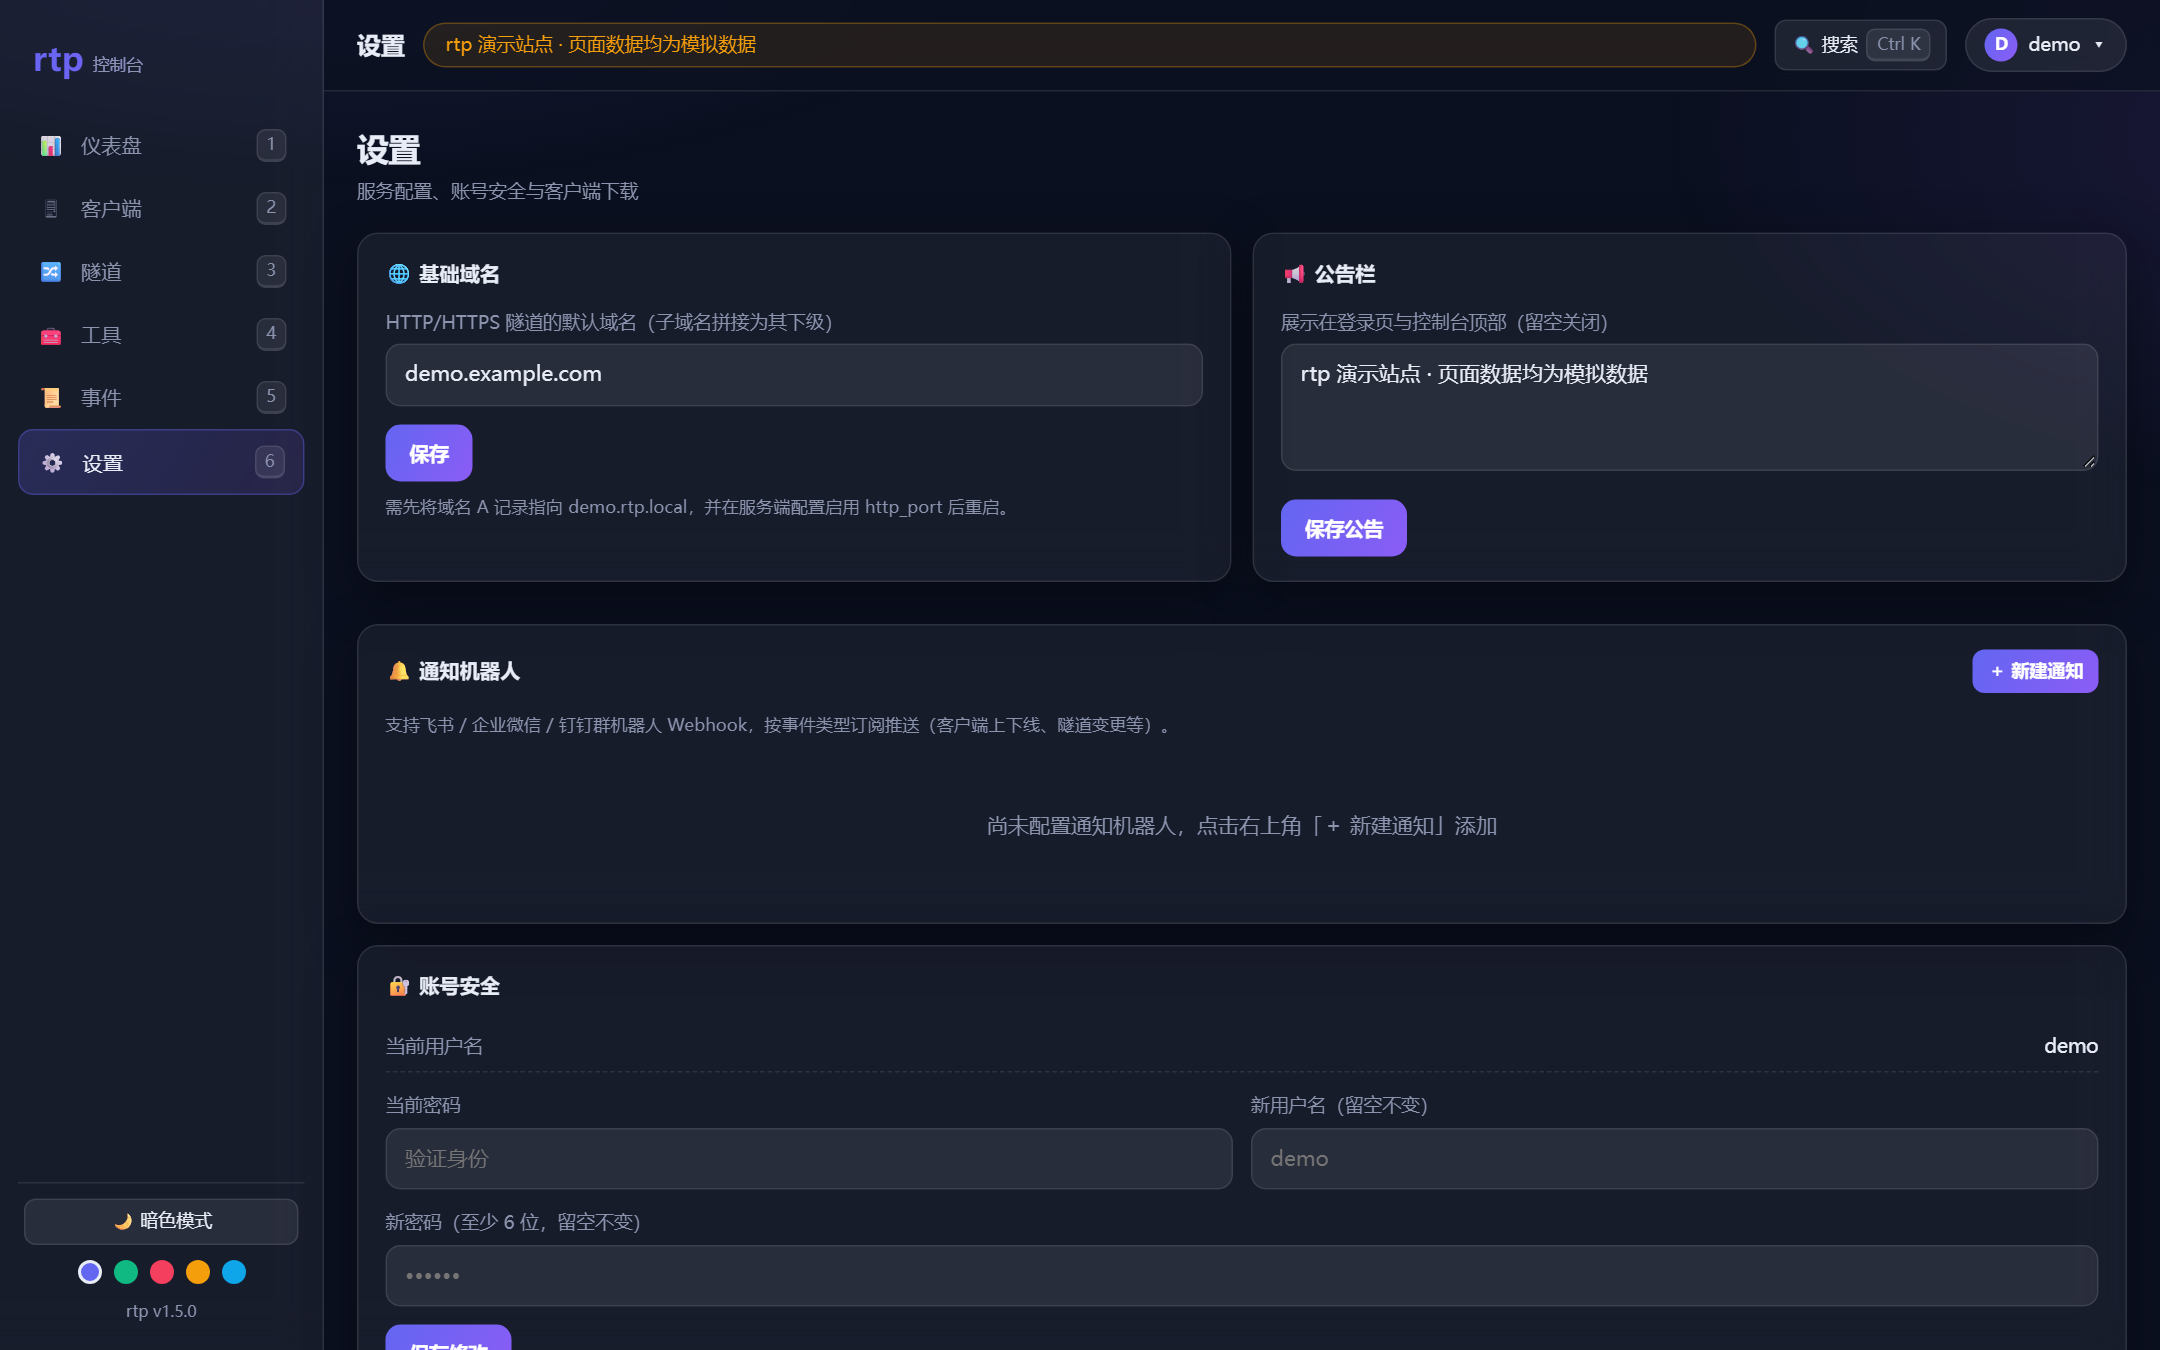
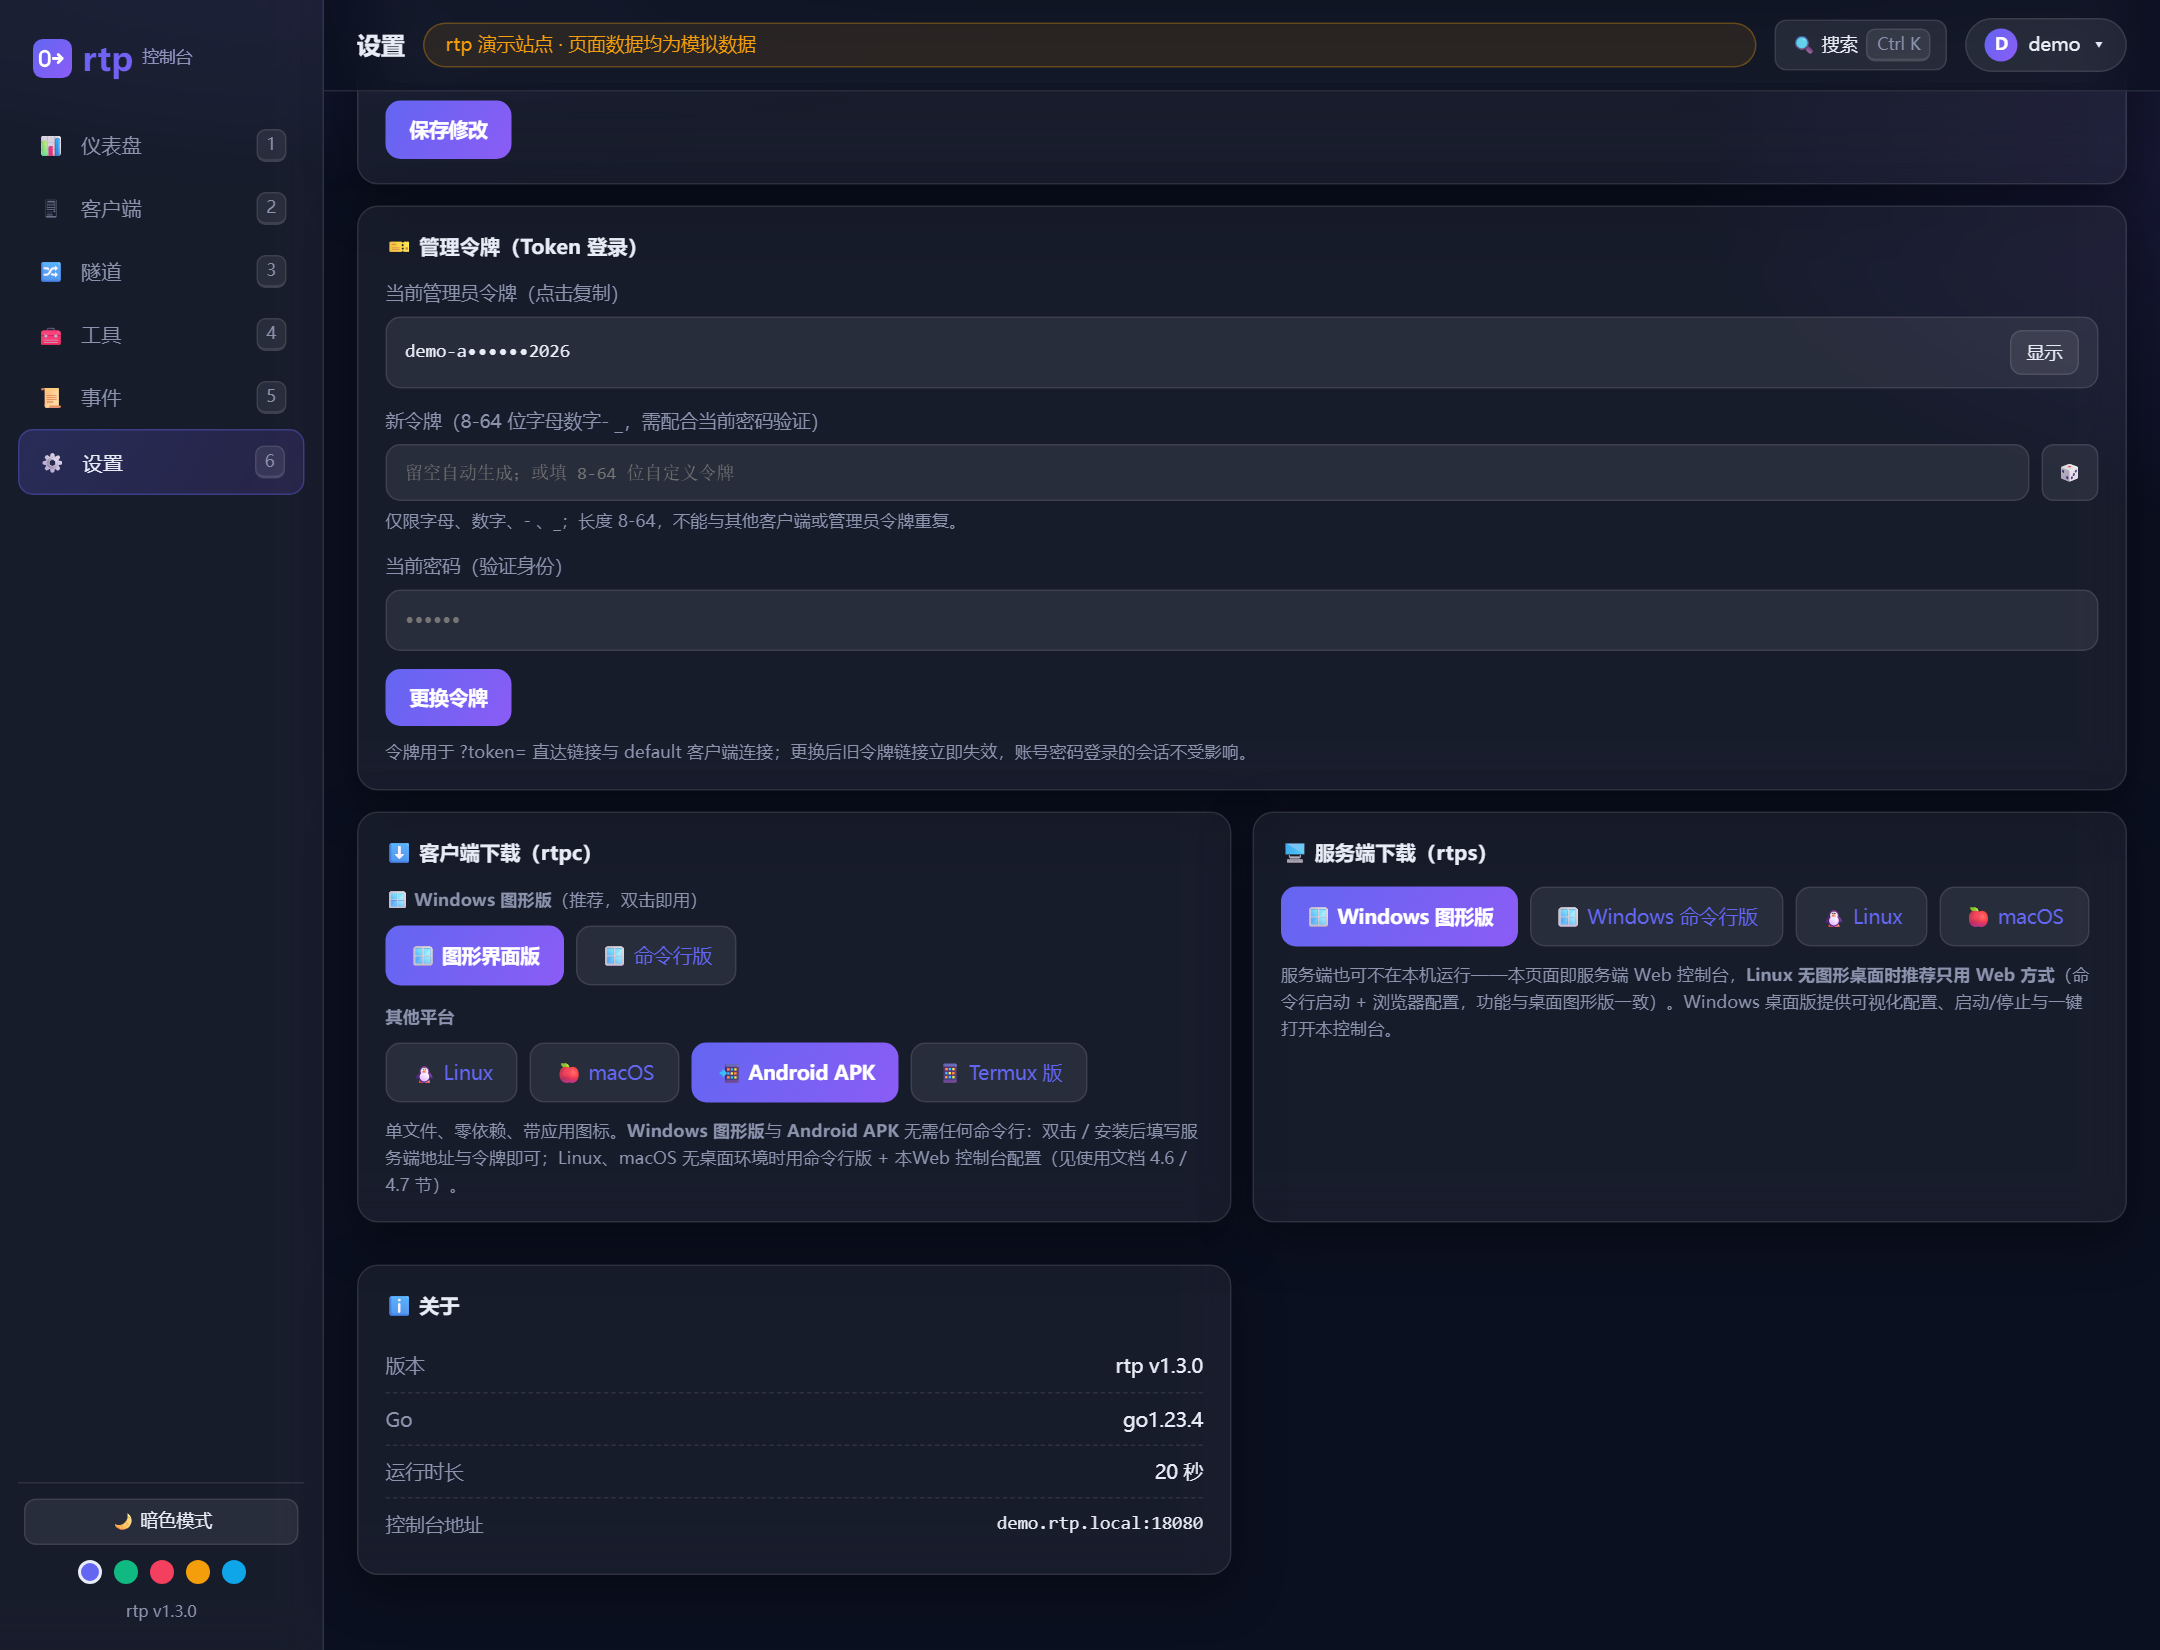
chore: 版本号对齐 v1.3.0 + 重拍设置页截图
- auth.go: RtpVersion 1.5.0 -> 1.3.0（此前误改，与 v1.3.0 标签不一致）
- assets/screenshots/09-settings.png: 重拍，展示新的「客户端下载 / 服务端下载」双区块
  （Windows 图形版/命令行版分列，Android APK 与 Termux 分组，服务端 4 平台）

diff --git a/cmd/rtps/auth.go b/cmd/rtps/auth.go
@@ -15,7 +15,7 @@ import (
 )
 
 // RtpVersion 当前版本号，展示在控制台「关于」中
-const RtpVersion = "1.5.0"
+const RtpVersion = "1.3.0"
 
 const sessionCookie = "rtp_session"
 const sessionMaxAge = 7 * 24 * 3600 // 会话有效期（秒）
